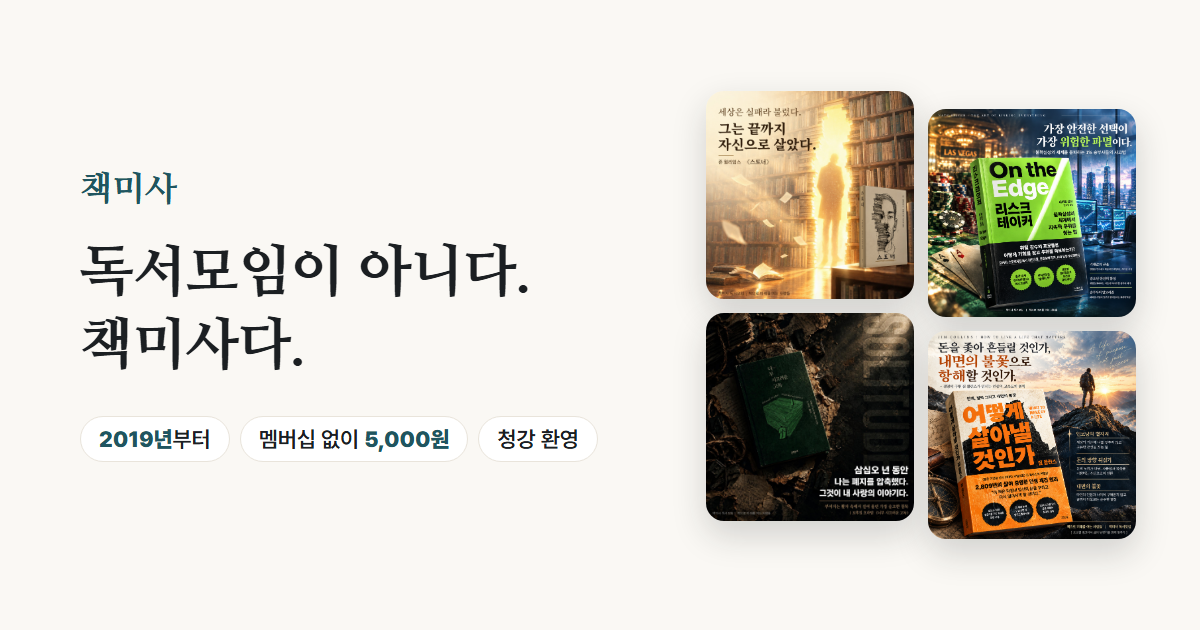
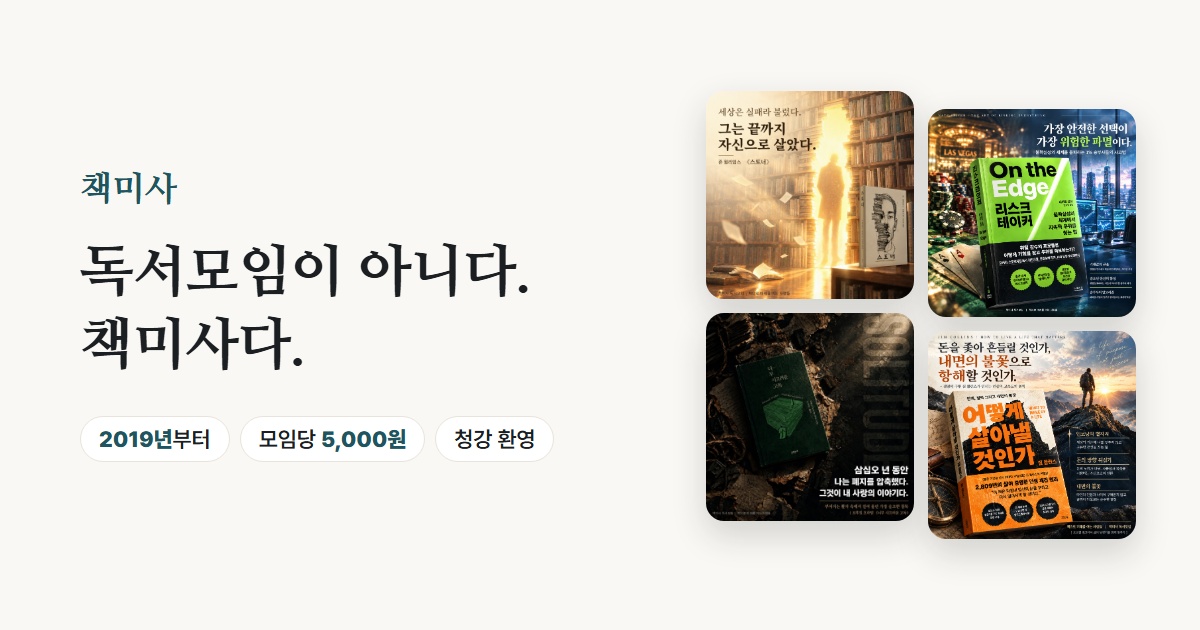
참가비 표기를 '모임당 5,000원'으로 명확히

Changed region(s): [[0.2158, 0.6635, 0.4933, 0.7238]]

diff --git a/join.html b/join.html
@@ -10,7 +10,7 @@
 <meta property="og:url" content="https://espada4897.github.io/espada/join.html">
 <meta property="og:site_name" content="책미사">
 <meta property="og:locale" content="ko_KR">
-<meta property="og:image" content="https://espada4897.github.io/espada/og.png?v=d4be25dd">
+<meta property="og:image" content="https://espada4897.github.io/espada/og.png?v=c3563921">
 <meta property="og:image:width" content="1200">
 <meta property="og:image:height" content="630">
 <meta property="og:image:alt" content="책미사 · 책으로 미래를 여는 사람들">
@@ -73,7 +73,7 @@ html { scroll-behavior: smooth; }
             <li><b>운영 방침</b>을 먼저 읽어 주세요. <a href="https://cafe.naver.com/espada4896/3" target="_blank" rel="noopener">카페에서 보기</a></li>
             <li>톡방에서 <b>간단한 자기소개</b>를 해 주세요.</li>
             <li>가장 가까운 줌 모임에 <b>청강</b>으로 들어와 분위기를 보세요.</li>
-            <li><b>참가비</b>: 멤버십이나 가입비 없이, 참여하는 모임마다 <b>5,000원</b>입니다.</li>
+            <li><b>참가비</b>: 모임에 한 번 참여할 때마다 <b>5,000원</b>입니다. 월회비나 멤버십, 가입비는 없습니다.</li>
             <li>지난 모임 정리는 <a href="https://blog.naver.com/espada4896" target="_blank" rel="noopener">블로그</a>에 있습니다.</li>
           </ul>
         </div>

diff --git a/index.html b/index.html
@@ -10,7 +10,7 @@
 <meta property="og:url" content="https://espada4897.github.io/espada/">
 <meta property="og:site_name" content="책미사">
 <meta property="og:locale" content="ko_KR">
-<meta property="og:image" content="https://espada4897.github.io/espada/og.png?v=d4be25dd">
+<meta property="og:image" content="https://espada4897.github.io/espada/og.png?v=c3563921">
 <meta property="og:image:width" content="1200">
 <meta property="og:image:height" content="630">
 <meta property="og:image:alt" content="책미사 · 책으로 미래를 여는 사람들">
@@ -59,7 +59,7 @@ html { scroll-behavior: smooth; }
       <h1 class="motto">독서모임이 아니다.<br>책미사다.</h1>
       <p class="lead">깊이 있게 읽고, 함께 이야기합니다.<br>토요일 밤 9시, 줌에서 만나요.</p>
       <ul class="facts">
-        <li>멤버십 없이 <b>5,000원</b></li>
+        <li>멤버십 없이 모임당 <b>5,000원</b></li>
         <li>완독 못 해도 <b>OK</b> · 청강 환영</li>
         <li><a href="books.html">함께 읽은 책 <b>128권</b></a></li>
       </ul>

diff --git a/quotes.html b/quotes.html
@@ -10,7 +10,7 @@
 <meta property="og:url" content="https://espada4897.github.io/espada/quotes.html">
 <meta property="og:site_name" content="책미사">
 <meta property="og:locale" content="ko_KR">
-<meta property="og:image" content="https://espada4897.github.io/espada/og.png?v=d4be25dd">
+<meta property="og:image" content="https://espada4897.github.io/espada/og.png?v=c3563921">
 <meta property="og:image:width" content="1200">
 <meta property="og:image:height" content="630">
 <meta property="og:image:alt" content="책미사 · 책으로 미래를 여는 사람들">

diff --git a/books.html b/books.html
@@ -10,7 +10,7 @@
 <meta property="og:url" content="https://espada4897.github.io/espada/books.html">
 <meta property="og:site_name" content="책미사">
 <meta property="og:locale" content="ko_KR">
-<meta property="og:image" content="https://espada4897.github.io/espada/og.png?v=d4be25dd">
+<meta property="og:image" content="https://espada4897.github.io/espada/og.png?v=c3563921">
 <meta property="og:image:width" content="1200">
 <meta property="og:image:height" content="630">
 <meta property="og:image:alt" content="책미사 · 책으로 미래를 여는 사람들">

diff --git a/clubs.html b/clubs.html
@@ -10,7 +10,7 @@
 <meta property="og:url" content="https://espada4897.github.io/espada/clubs.html">
 <meta property="og:site_name" content="책미사">
 <meta property="og:locale" content="ko_KR">
-<meta property="og:image" content="https://espada4897.github.io/espada/og.png?v=d4be25dd">
+<meta property="og:image" content="https://espada4897.github.io/espada/og.png?v=c3563921">
 <meta property="og:image:width" content="1200">
 <meta property="og:image:height" content="630">
 <meta property="og:image:alt" content="책미사 · 책으로 미래를 여는 사람들">

diff --git a/story.html b/story.html
@@ -10,7 +10,7 @@
 <meta property="og:url" content="https://espada4897.github.io/espada/story.html">
 <meta property="og:site_name" content="책미사">
 <meta property="og:locale" content="ko_KR">
-<meta property="og:image" content="https://espada4897.github.io/espada/og.png?v=d4be25dd">
+<meta property="og:image" content="https://espada4897.github.io/espada/og.png?v=c3563921">
 <meta property="og:image:width" content="1200">
 <meta property="og:image:height" content="630">
 <meta property="og:image:alt" content="책미사 · 책으로 미래를 여는 사람들">

diff --git a/how.html b/how.html
@@ -10,7 +10,7 @@
 <meta property="og:url" content="https://espada4897.github.io/espada/how.html">
 <meta property="og:site_name" content="책미사">
 <meta property="og:locale" content="ko_KR">
-<meta property="og:image" content="https://espada4897.github.io/espada/og.png?v=d4be25dd">
+<meta property="og:image" content="https://espada4897.github.io/espada/og.png?v=c3563921">
 <meta property="og:image:width" content="1200">
 <meta property="og:image:height" content="630">
 <meta property="og:image:alt" content="책미사 · 책으로 미래를 여는 사람들">

diff --git a/log.html b/log.html
@@ -10,7 +10,7 @@
 <meta property="og:url" content="https://espada4897.github.io/espada/log.html">
 <meta property="og:site_name" content="책미사">
 <meta property="og:locale" content="ko_KR">
-<meta property="og:image" content="https://espada4897.github.io/espada/og.png?v=d4be25dd">
+<meta property="og:image" content="https://espada4897.github.io/espada/og.png?v=c3563921">
 <meta property="og:image:width" content="1200">
 <meta property="og:image:height" content="630">
 <meta property="og:image:alt" content="책미사 · 책으로 미래를 여는 사람들">
